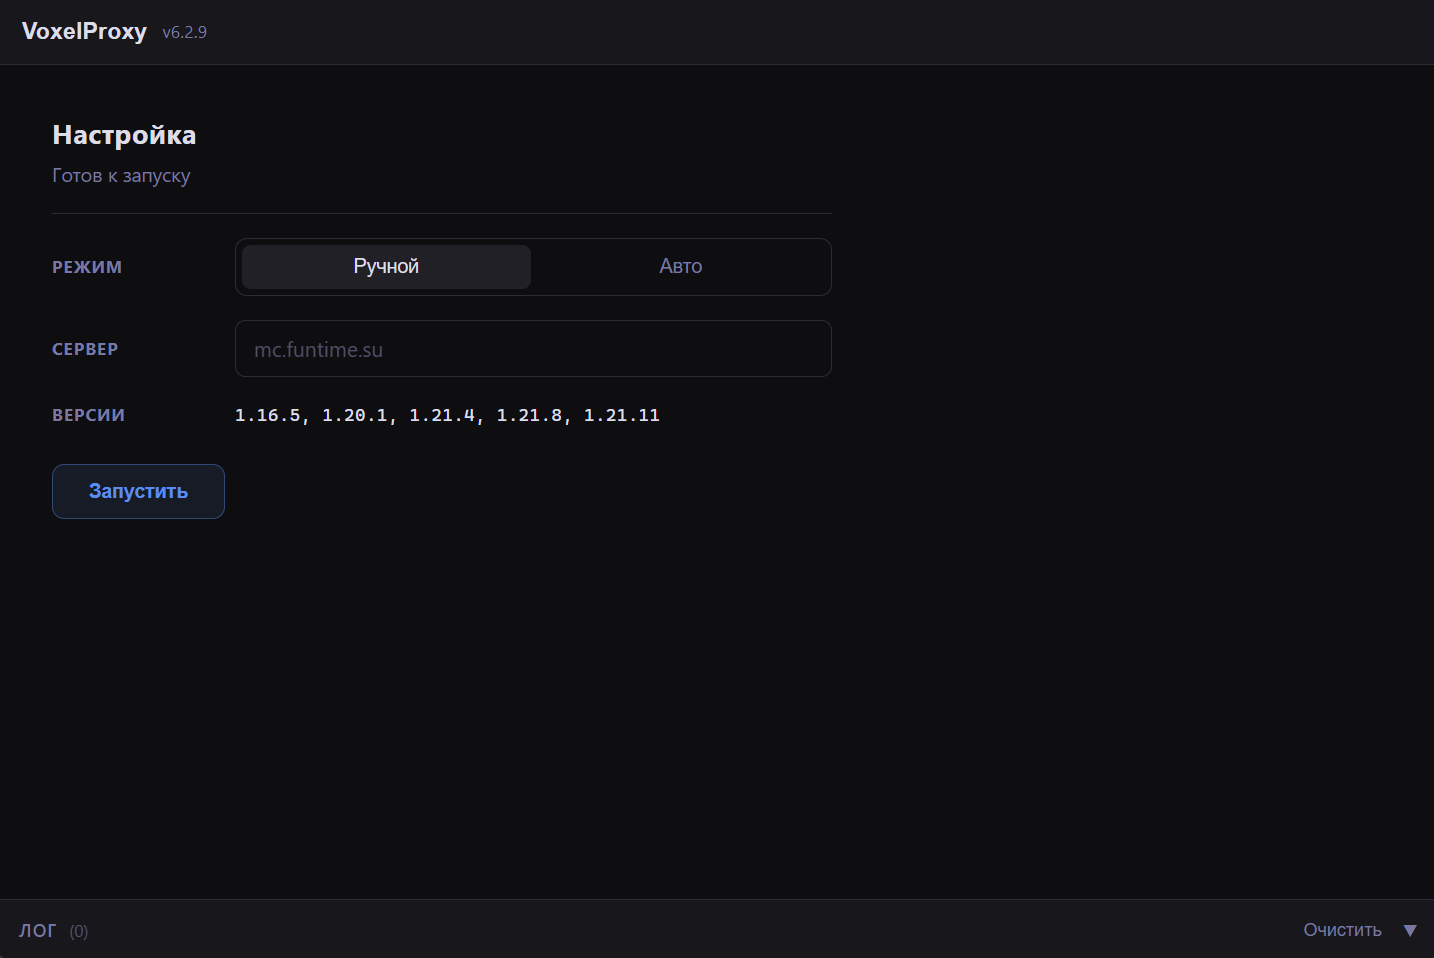
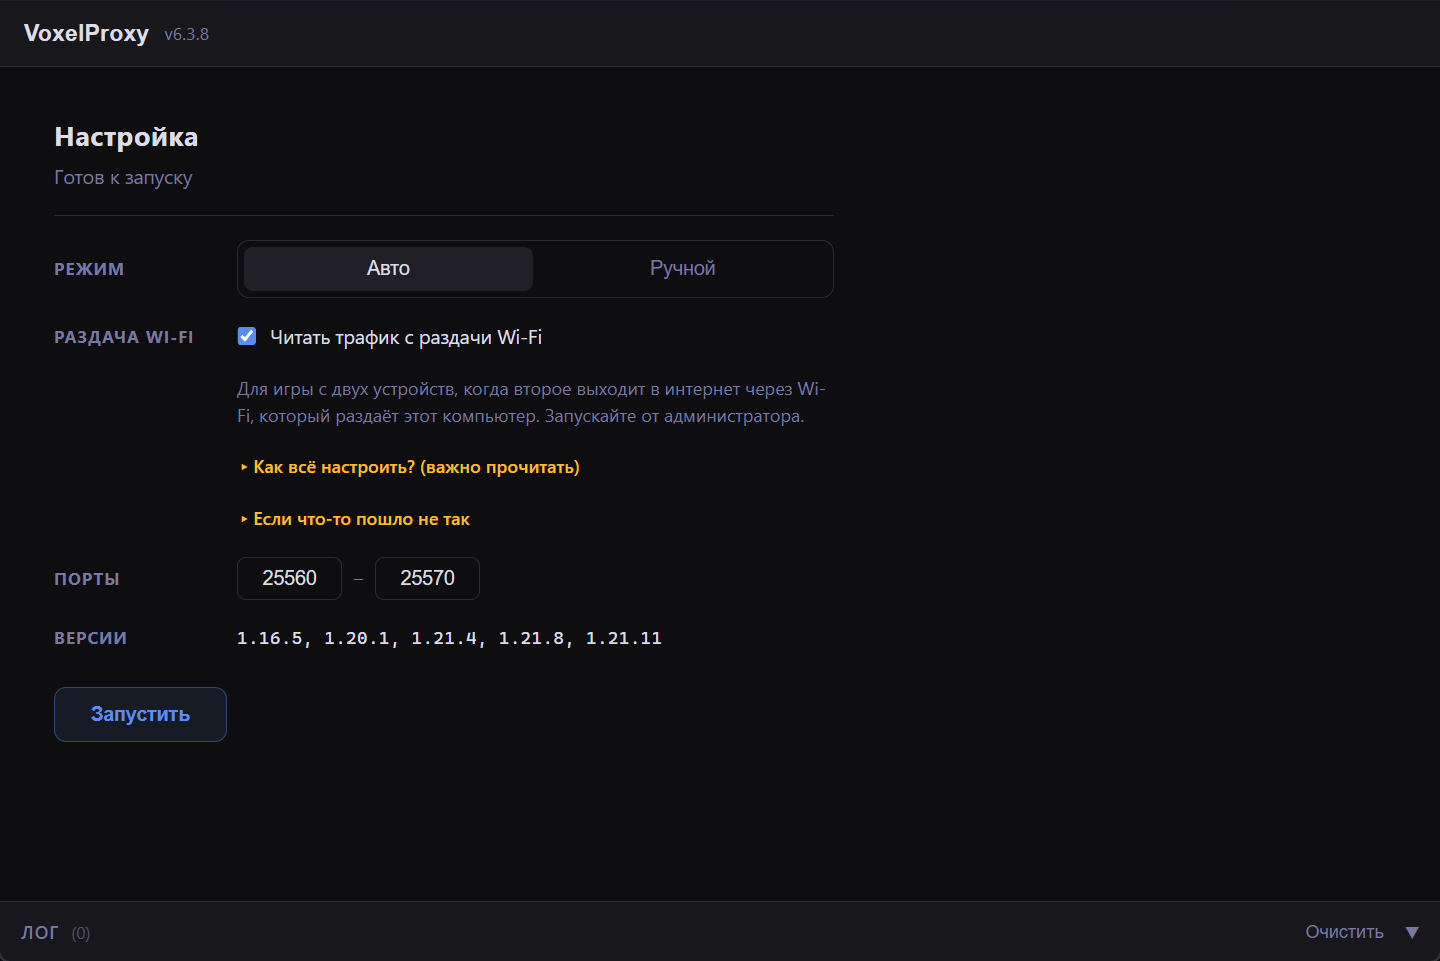
readme update

diff --git a/README.md b/README.md
@@ -4,8 +4,6 @@
 
 **Поддерживаемые версии:** 1.16.5 | 1.20.1 | 1.21.4 | 1.21.8 | 1.21.11
 
-![gui](gui.png)
-
 ---
 
 ## Запуск
@@ -27,6 +25,6 @@
 3. Подключите оба клиента на адрес, который покажет приложение.
    Сначала основной — он станет активным, потом второй.
 
----
+![gui](gui.png)
 
 **Лицензия:** [GPL-3.0](LICENSE)